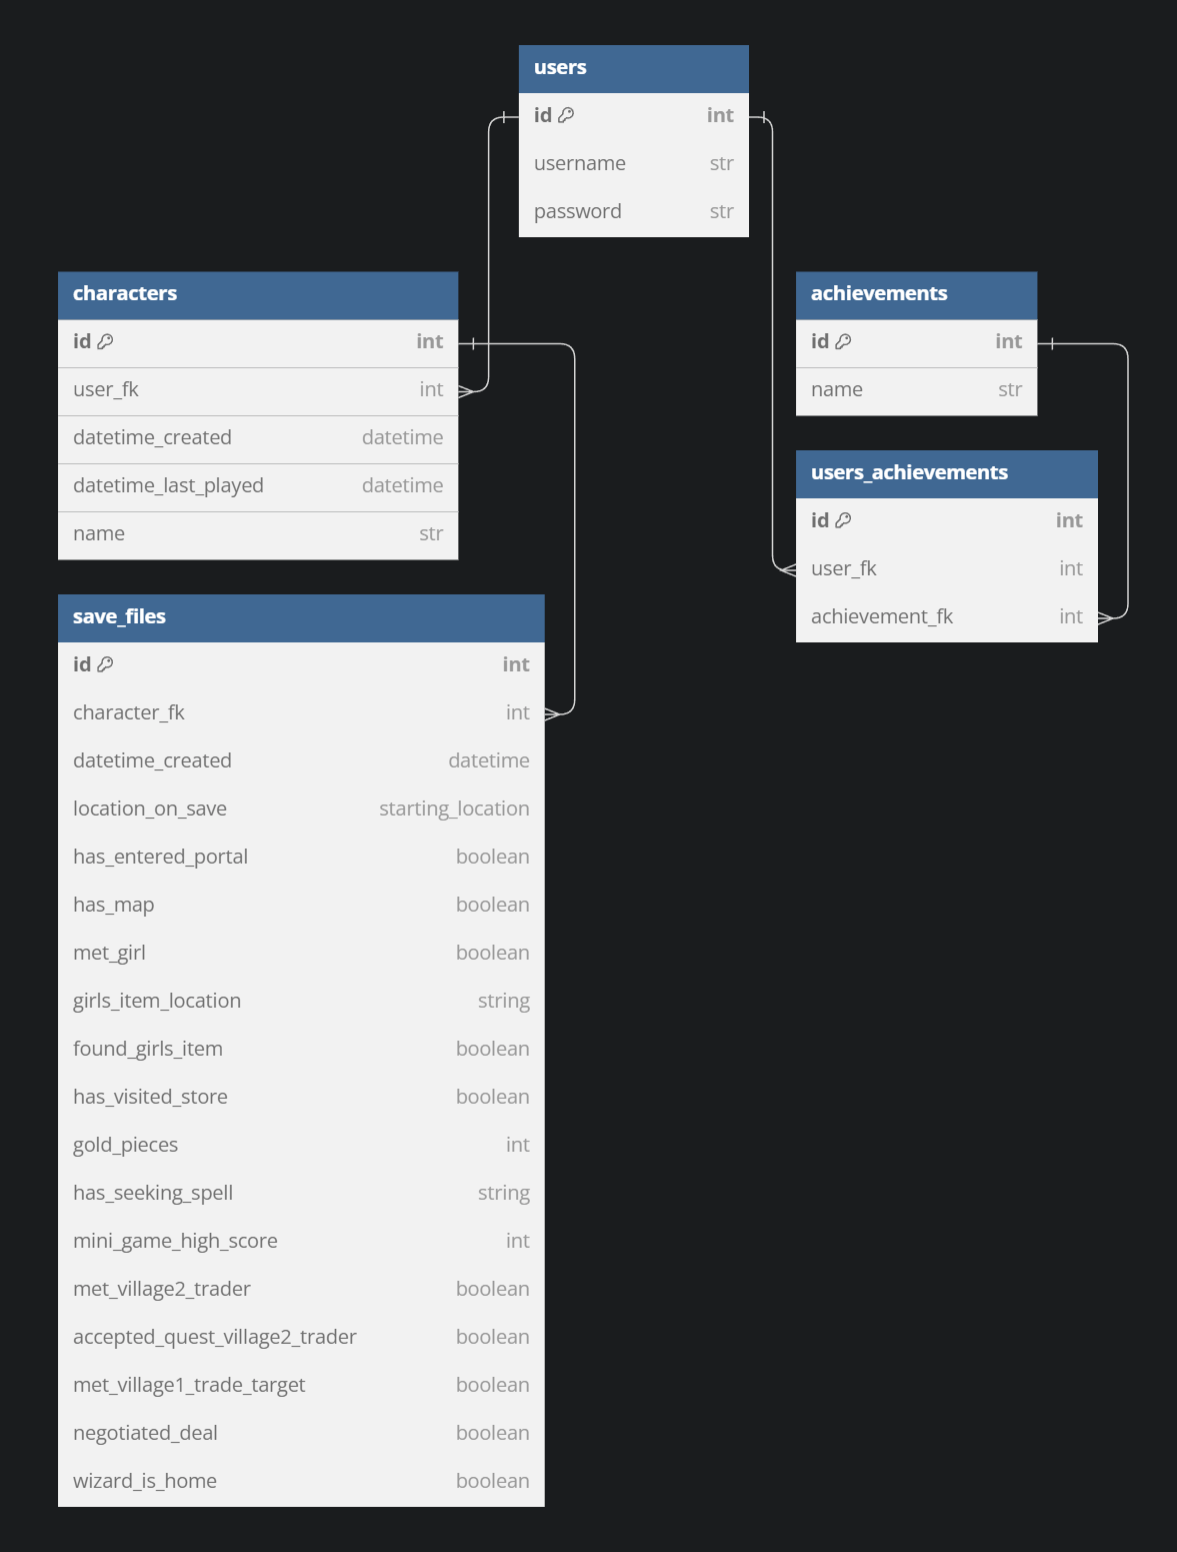
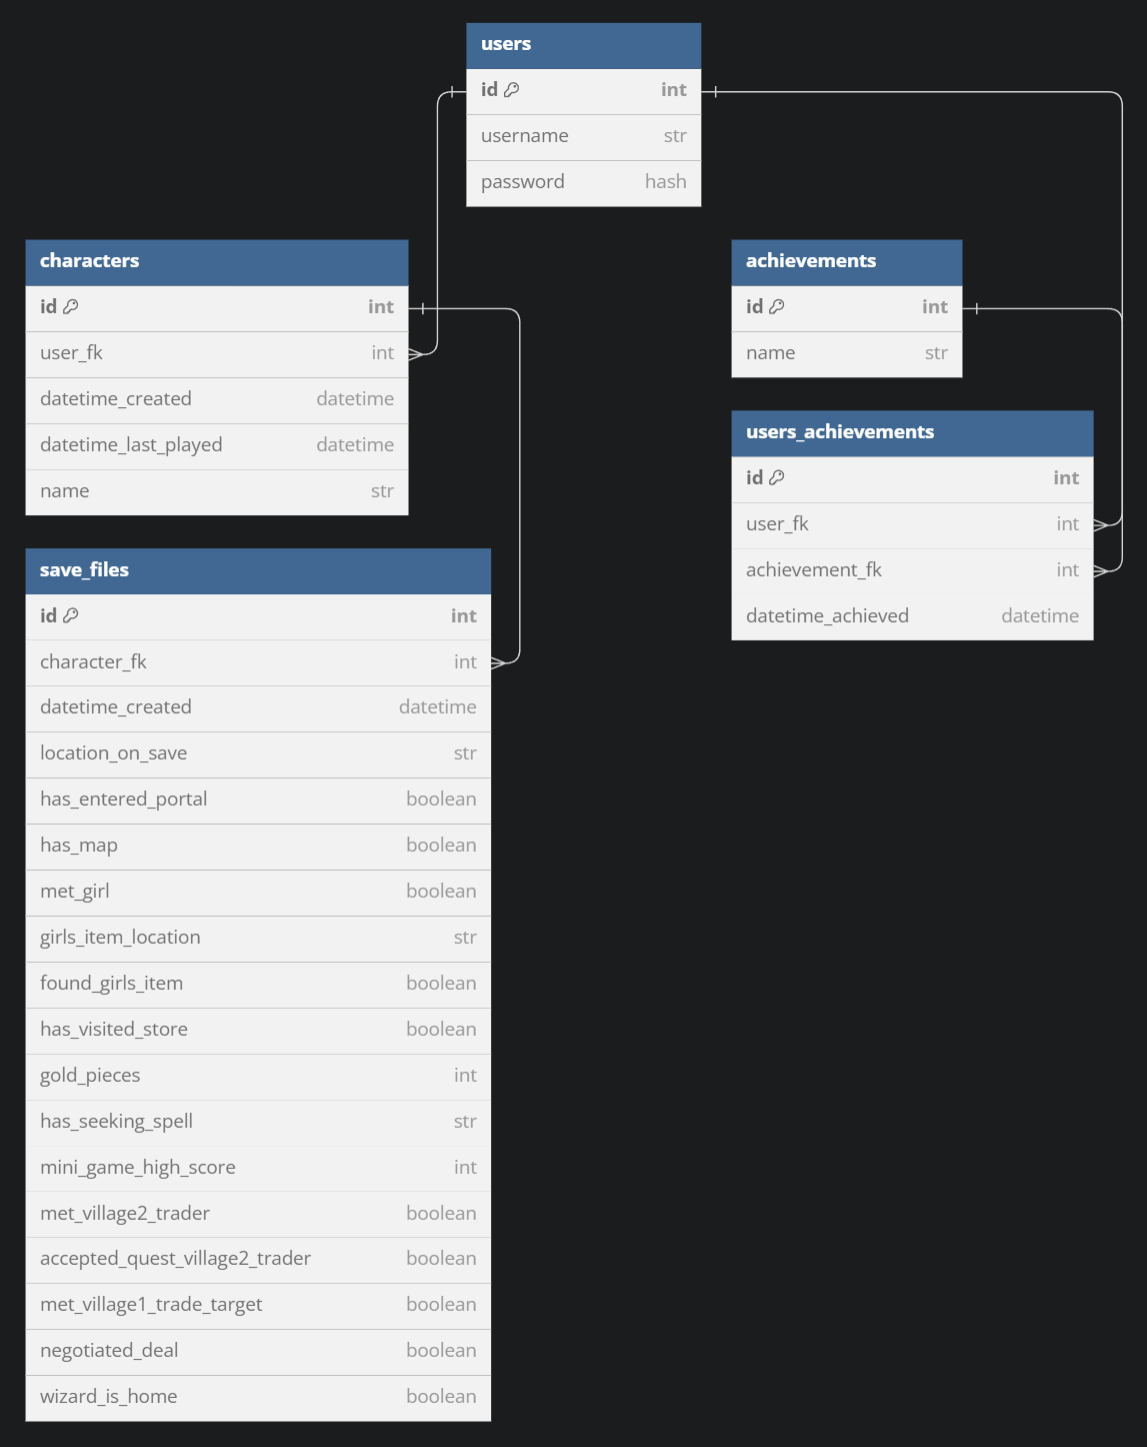
completes routes and full database restructure to incorporate save file

Changed region(s): [[0.0, 0.1555, 0.4882, 0.9952], [0.6103, 0.1555, 0.9765, 0.4665], [0.3967, 0.0, 0.6713, 0.1555]]

diff --git a/server/app.py b/server/app.py
@@ -1,12 +1,18 @@
 from config import app
 from flask import make_response, request
-from models import db, User, UserAchievement, Achievement, SaveFile
+from models import db, User, UserAchievement, Achievement, SaveFile, Character
 
 import datetime
 
 @app.route('/')
 def index():
-    return 'Navigate to: /users, /users/<id>, /save_files, /save_files/<id>,  '
+    return 'Navigate to: /users, /users/<id>, /save_files, /save_files/<id>, '
+
+
+#--------------------------------------
+### USERS ###
+#--------------------------------------
+
 
 @app.route('/users', methods=['GET', 'POST'])
 def users():
@@ -57,6 +63,76 @@ def users_by_id(id):
         response = make_response({"error": "User not found"}, 404)
     return response
 
+
+#--------------------------------------
+### CHARACTERS ###
+#--------------------------------------
+
+
+@app.route('/characters', methods=['GET'])
+def characters():
+    if request.method == 'GET':
+        characters = Character.query.all()
+        response = [character.to_dict() for character in characters]
+        return make_response(response, 200)
+
+@app.route('/characters/<int:id>', methods=['GET', 'PATCH', 'DELETE'])
+def characters_by_id(id):
+    character = Character.query.filter(Character.id == id).first()
+    if character:
+        if request.method == 'GET':
+            response = make_response(character.to_dict(), 200)
+        elif request.method == 'PATCH':
+            form_data = request.get_json()
+            try:
+                for attr in form_data:
+                    setattr(character, attr, form_data.get(attr))
+                db.session.commit()
+                response = make_response(character.to_dict(), 202)
+            except ValueError:
+                response = make_response(
+                    {"errors": ["Validation errors in PATCH to character id"]},
+                    400
+                )
+        elif request.method == 'DELETE':
+            db.session.delete(character)
+            db.session.commit()
+            response = make_response({},204)
+    else:
+        response = make_response({"error": "Character not found"}, 404)
+    return response
+
+@app.route('/characters/<int:user_id>', methods=['GET', 'POST'])
+def characters_by_user_id(user_id):
+    if request.method == 'GET':
+        characters = Character.query.filter(Character.user_fk == user_id).all()
+        response = [character.to_dict() for character in characters]
+        return make_response(response, 200)
+    elif request.method == 'POST':
+        form_data = request.get_json()
+        try:
+            new_character = Character(
+                name = form_data['name'],
+                datetime_created = datetime.datetime.utcnow(),
+                datetime_last_played = datetime.datetime.utcnow(),
+                user_fk = user_id
+            )
+            db.session.add(new_character)
+            db.session.commit()
+            response = make_response(new_character.to_dict(), 201)
+        except ValueError:
+            response = make_response(
+                {"errors": ["Validation errors in POST to characters"]},
+                400
+            )
+        return response
+
+
+#--------------------------------------
+### SAVE FILES ###
+#--------------------------------------
+
+
 @app.route('/save_files', methods=['GET'])
 def save_files():
     if request.method == 'GET':
@@ -64,19 +140,33 @@ def save_files():
         response = [save_file.to_dict() for save_file in save_files]
         return make_response(response, 200)
 
-@app.route('/save_files/<int:user_id>', methods=['GET', 'POST'])
-def save_files_by_user_id(user_id):
+@app.route('/save_files/<int:character_id>', methods=['GET', 'POST'])
+def save_files_by_character_id(character_id):
     if request.method == 'GET':
-        save_files = SaveFile.query.filter(SaveFile.user_fk == user_id).all()
+        save_files = SaveFile.query.filter(SaveFile.character_fk == character_id).all()
         response = [save_file.to_dict() for save_file in save_files]
         return make_response(response, 200)
     elif request.method == 'POST':
-        # form_data = request.get_json()
+        form_data = request.get_json()
         try:
             new_save_file = SaveFile(
-                src = 'tbd', #need to change this to automatically happen without form data
-                timestamp = datetime.datetime.utcnow(),
-                user_fk = user_id
+                character_fk = character_id,
+                datetime_created = datetime.datetime.utcnow(),
+                location_on_save = form_data['location_on_save'],
+                has_entered_portal = form_data['has_entered_portal'],
+                has_map = form_data['has_map'],
+                met_girl = form_data['met_girl'],
+                girls_item_location = form_data['girls_item_location'],
+                found_girls_item = form_data['found_girls_item'],
+                has_visited_store = form_data['has_visited_store'],
+                gold_pieces = form_data['gold_pieces'],
+                has_seeking_spell = form_data['has_seeking_spell'],
+                mini_game_high_score = form_data['mini_game_high_score'],
+                met_village2_trader = form_data['met_village2_trader'],
+                accepted_quest_village2_trader = form_data['accepted_quest_village2_trader'],
+                met_village1_trade_target = form_data['met_village1_trade_target'],
+                negotiated_deal = form_data['negotiated_deal'],
+                wizard_is_home = form_data['wizard_is_home']
             )
             db.session.add(new_save_file)
             db.session.commit()
@@ -101,6 +191,94 @@ def save_files_by_id(id):
     else:
         response = make_response({"error": "Save file not found"}, 404)
     return response
+
+
+#--------------------------------------
+### ACHIEVEMENTS ###
+#--------------------------------------
+
+
+@app.route('/achievements', methods=['GET'])
+def achievements():
+    if request.method == 'GET':
+        achievements = Achievement.query.all()
+        response = [achievement.to_dict() for achievement in achievements]
+        return make_response(response, 200)
+
+@app.route('/achievements/<int:id>', methods=['GET'])
+def achievements_by_id(id):
+    achievement = Achievement.query.filter(Achievement.id == id).first()
+    if achievement:
+        if request.method == 'GET':
+            response = make_response(achievement.to_dict(), 200)
+    else:
+        response = make_response({"error": "Achievement not found"}, 404)
+    return response
+
+
+#--------------------------------------
+### USERS ACHIEVEMENTS ###
+#--------------------------------------
+
+
+@app.route('/users_achievements', methods=['GET'])
+def users_achievements():
+    if request.method == 'GET':
+        users_achievements = UserAchievement.query.all()
+        response = [user_achievement.to_dict() for user_achievement in users_achievements]
+        return make_response(response, 200)
+
+@app.route('/users_achievements/<int:id>', methods=['GET', 'PATCH', 'DELETE'])
+def users_achievements_by_id(id):
+    user_achievement = UserAchievement.query.filter(UserAchievement.id == id).first()
+    if user_achievement:
+        if request.method == 'GET':
+            response = make_response(user_achievement.to_dict(), 200)
+        elif request.method == 'PATCH':
+            form_data = request.get_json()
+            try:
+                for attr in form_data:
+                    setattr(user_achievement, attr, form_data.get(attr))
+                db.session.commit()
+                response = make_response(user_achievement.to_dict(), 202)
+            except ValueError:
+                response = make_response(
+                    {"errors": ["Validation errors in PATCH to UserAchievement id"]},
+                    400
+                )
+        elif request.method == 'DELETE':
+            db.session.delete(user_achievement)
+            db.session.commit()
+            response = make_response({},204)
+    else:
+        response = make_response({"error": "UserAchievement not found"}, 404)
+    return response
+
+@app.route('/users_achievements/<int:user_id>', methods=['GET', 'POST'])
+def users_achievements_by_user_id(user_id):
+    if request.method == 'GET':
+        users_achievements = UserAchievement.query.filter(UserAchievement.user_fk == user_id).all()
+        response = [user_achievement.to_dict() for user_achievement in users_achievements]
+        return make_response(response, 200)
+    elif request.method == 'POST':
+        form_data = request.get_json()
+        try:
+            new_user_achievement = UserAchievement(
+                achievement_fk = form_data['achievement_fk'],
+                user_fk = user_id,
+                datetime_achieved = datetime.datetime.utcnow()
+            )
+            db.session.add(new_user_achievement)
+            db.session.commit()
+            response = make_response(new_user_achievement.to_dict(), 201)
+        except ValueError:
+            response = make_response(
+                {"errors": ["Validation errors in POST to users_achievements"]},
+                400
+            )
+        return response
+
+
 
 # run python app.py
 if __name__ == '__main__':

diff --git a/server/seed.py b/server/seed.py
@@ -70,6 +70,24 @@ def create_save_files():
   save_files = [sf1, sf2]
   return save_files
 
+def create_users_achievements():
+  ua1 = UserAchievement(
+    user_fk = 1,
+    achievement_fk = 1,
+    datetime_achieved = datetime.datetime(month=11, day=15, year=2023, hour=12, minute=10, second =0, microsecond=0, fold=0)
+  )
+  users_achievements = [ua1]
+  return users_achievements
+
+def create_achievements():
+  a1 = Achievement(
+    name = "Curiosity killed the cat",
+    summary = "Enter the portal.",
+    visibility = "false"
+    )
+  achievements = [a1]
+  return achievements
+
 if __name__ == '__main__':
 
   with app.app_context():
@@ -93,6 +111,16 @@ if __name__ == '__main__':
     print("Seeding save files...")
     save_files = create_save_files()
     db.session.add_all(save_files)
+    db.session.commit()
+
+    print("Seeding users achievements...")
+    users_achievements = create_users_achievements()
+    db.session.add_all(users_achievements)
+    db.session.commit()
+
+    print("Seeding achievements...")
+    achievements = create_achievements()
+    db.session.add_all(achievements)
     db.session.commit()
 
     # print("Seeding saves items joins...")

diff --git a/server/models.py b/server/models.py
@@ -35,7 +35,9 @@ class User(db.Model, SerializerMixin):
     
   def __repr__(self):
     return f'<User {self.id}>'
-  
+
+
+
 class Character(db.Model, SerializerMixin):
   __tablename__ = 'characters'
   # serialize_rules = (,)
@@ -78,7 +80,7 @@ class SaveFile(db.Model, SerializerMixin):
   accepted_quest_village2_trader = db.Column(db.String)
   met_village1_trade_target = db.Column(db.String)
   negotiated_deal = db.Column(db.String)
-  
+
   wizard_is_home = db.Column(db.String)
   
   def __repr__(self):
@@ -121,6 +123,8 @@ class UserAchievement(db.Model, SerializerMixin):
   user_fk = db.Column(db.Integer, db.ForeignKey('users.id'))
   achievement_fk = db.Column(db.Integer, db.ForeignKey('achievements.id'))
 
+  datetime_achieved = db.Column(db.String)
+
   @validates('user_fk')
   def validates_user_fk(self, key, user_fk):
     if user_fk:
@@ -145,7 +149,10 @@ class Achievement(db.Model, SerializerMixin):
   # serialize_rules = 
 
   id = db.Column(db.Integer, primary_key=True)
+
   name = db.Column(db.String)
+  summary = db.Column(db.String)
+  visibility = db.Column(db.String)
 
   @validates('name')
   def validates_name(self, key, name):
